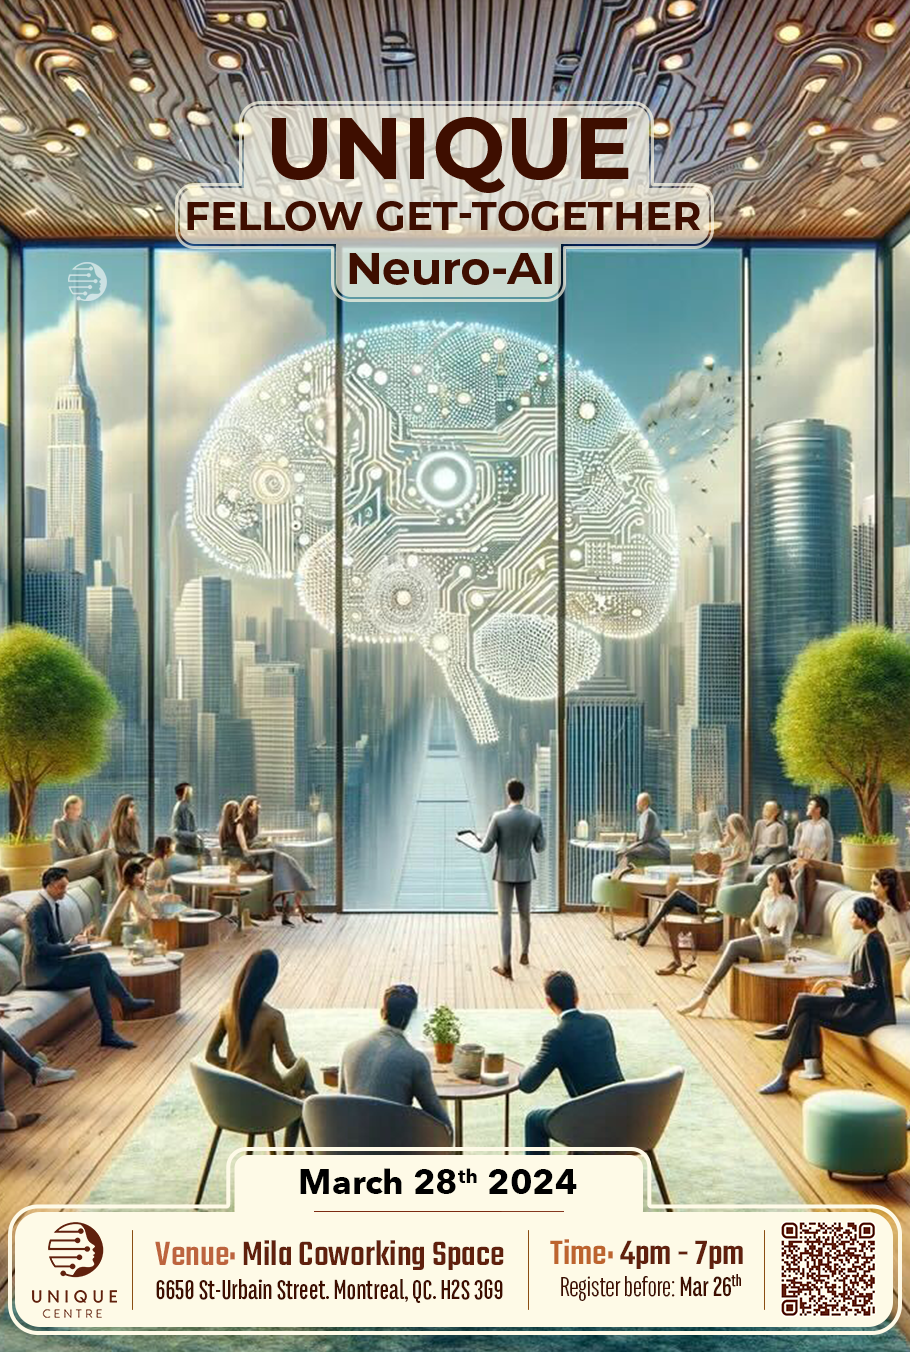
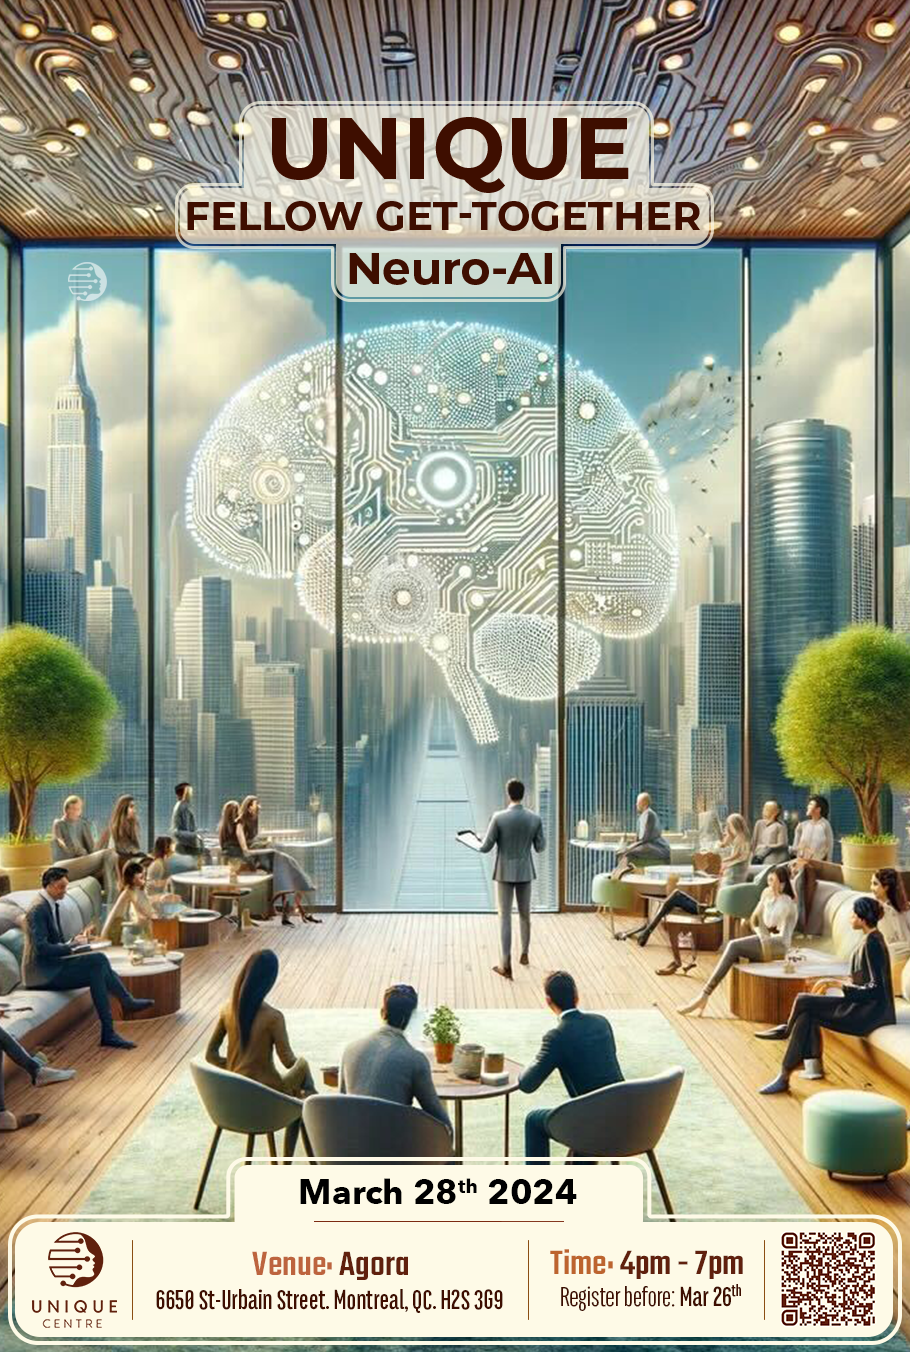
Update Get-Together location and poster

Changed region(s): [[0.0, 0.8388, 1.0, 1.0]]

diff --git a/_pages/2024/get_together_spring.md b/_pages/2024/get_together_spring.md
@@ -23,7 +23,7 @@ This event is an ideal opportunity to present UNIQUE-funded work and promote the
 _Cet événement est l’occasion idéale de présenter les travaux financés par UNIQUE et de promouvoir la communauté des étudiant.e.s de Neuro-AI. L’événement comprendra de brèves présentations d’étudiant.e.s, suivies d’un réseautage accompagné de nourriture (pizza et snacks). Avec cette rencontre, nous voulons donner aux étudiant.e.s d’UNIQUE l’opportunité de se connaître dans un format plus amical, dans le but de créer une communauté d’étudiant.e.s Neuro-AI et de créer un réseau parmi les étudiant.e.s UNIQUE._
 
 **Date & Time:** Tuesday, 28th March 2024 from 4 pm to 7 pm EST<br>
-**Venue:** [Mila Coworking Space, 6650 Rue St-Urbain, Montréal, QC H2S 3G9](https://maps.app.goo.gl/455ze7suaPv2p8J6A)<br>
+**Venue:** [Mila Agora, 6650 Rue St-Urbain, Montréal, QC H2S 3G9](https://maps.app.goo.gl/455ze7suaPv2p8J6A)<br>
 **Registration:** [click here!](https://docs.google.com/forms/d/e/1FAIpQLSdoeNFKOps_YaOqxhCoiTJRd1Vu6sNsT1chOn_39VwQ6KmQCg/viewform)<br>
 **Deadline:** 26th March 2024
 

diff --git a/index.md b/index.md
@@ -26,7 +26,7 @@ This event is an ideal opportunity to present UNIQUE-funded work and promote the
 _Cet événement est l'occasion idéale de présenter les travaux financés par UNIQUE et de promouvoir la communauté des étudiant.e.s de Neuro-AI. L'événement comprendra de brèves présentations d'étudiant.e.s, suivies d'un réseautage accompagné de nourriture (pizza et snacks). Avec cette rencontre, nous voulons donner aux étudiant.e.s d'UNIQUE l'opportunité de se connaître dans un format plus amical, dans le but de créer une communauté d'étudiant.e.s Neuro-AI et de créer un réseau parmi les étudiant.e.s UNIQUE._
 
 **Date & Time:** Tuesday, 28th March 2024 from 4 pm to 7 pm EST<br>
-**Venue:** [Mila Coworking Space, 6650 Rue St-Urbain, Montréal, QC H2S 3G9](https://maps.app.goo.gl/455ze7suaPv2p8J6A)<br>
+**Venue:** [Mila Agora, 6650 Rue St-Urbain, Montréal, QC H2S 3G9](https://maps.app.goo.gl/455ze7suaPv2p8J6A)<br>
 **Registration:** [click here!](https://docs.google.com/forms/d/e/1FAIpQLSdoeNFKOps_YaOqxhCoiTJRd1Vu6sNsT1chOn_39VwQ6KmQCg/viewform)<br>
 **Deadline:** 26th March 2024
 
